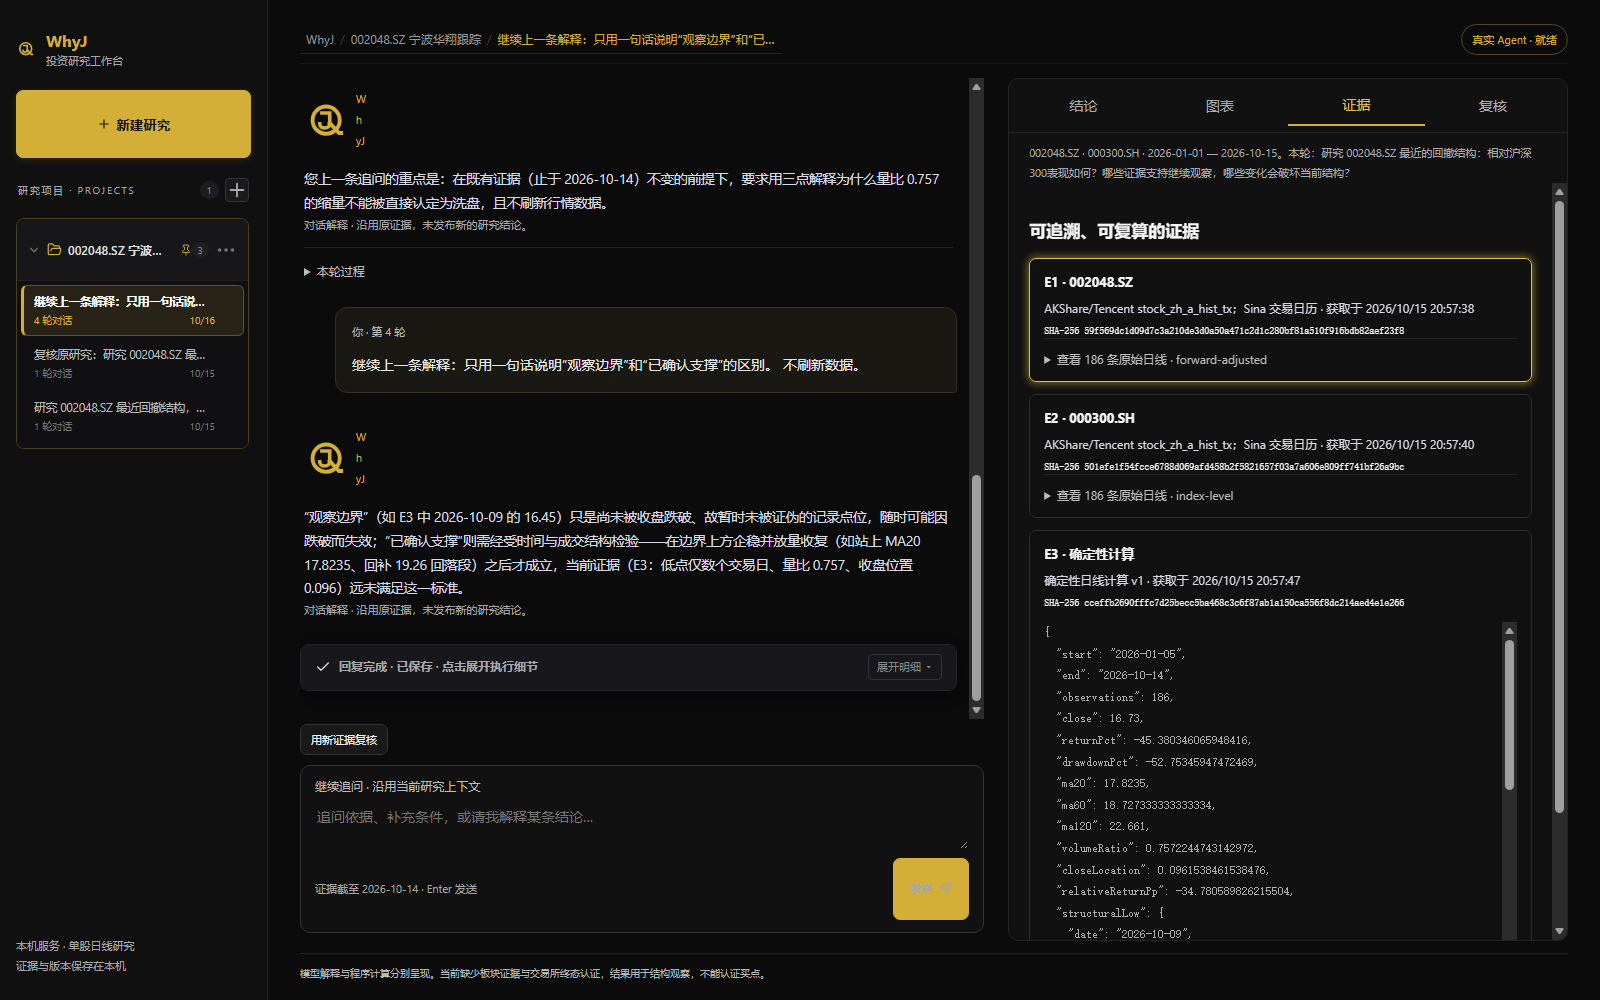
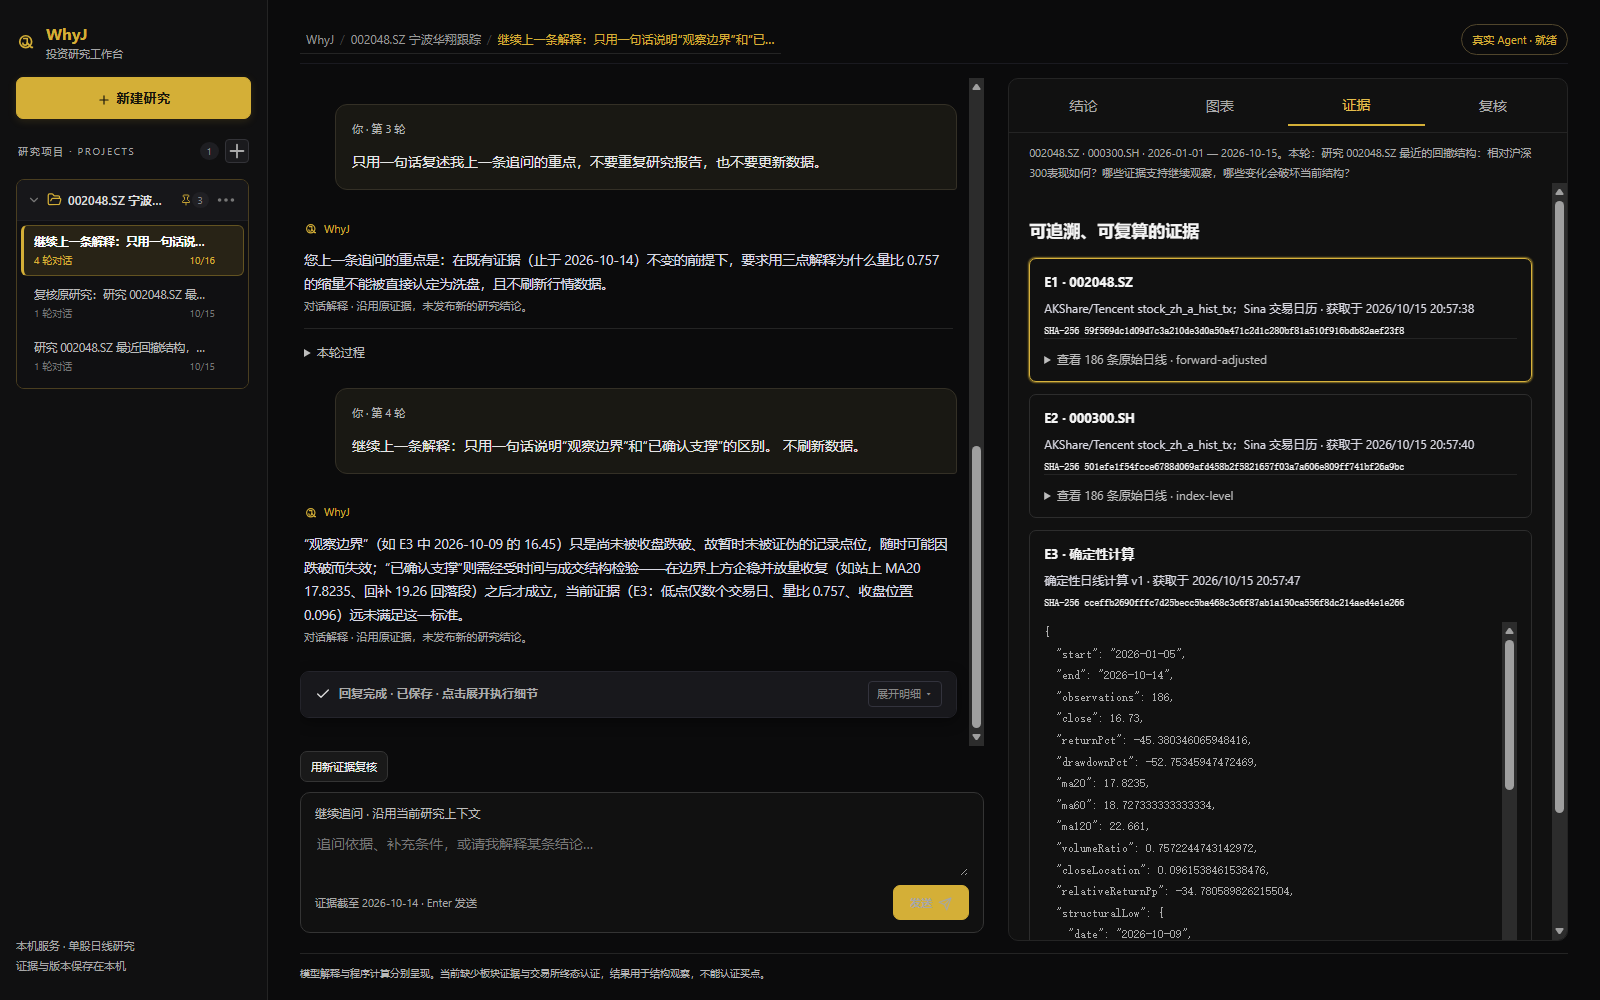
fix(workspace): keep inline SVG glyphs out of the document-wide svg rule
style.css still carries a `svg { width: 100%; height: auto; margin: 15px 0 }`
rule written for Markdown content. The Lucide glyphs and the JQ logo mark
introduced in this branch inherited it, which stretched the message role
logo into a ~46px circle and left 15px vertical margins on every icon.

The logo's own width attribute could not win inside the inline-flex role
line, so its `<span>WhyJ</span>` was squeezed to one character per line.
Reset the margin for both icon classes and pin the role mark's box.

Measured before/after at 1280x900 through computed styles: role line height
75.75px -> 20.89px, role logo 45.75px -> 14px, icon margins 15px -> 0px, and
the WhyJ label 10.28px wide (four stacked lines) -> 25.75px on one line.
The three captured screenshots are regenerated from this revision.

diff --git a/src/app/research-workspace/web/style.css b/src/app/research-workspace/web/style.css
@@ -69,6 +69,13 @@ aside {
 }
 
 /* Lucide and JQ SVG Icons */
+/* The document-wide `svg { width: 100%; height: auto; margin: 15px 0 }` rule
+   below styles Markdown content; these inline glyphs must opt out of its
+   box margins, so reset it here with higher specificity. */
+.lucide,
+.jq-logo-mark {
+  margin: 0;
+}
 .lucide {
   vertical-align: middle;
   display: inline-block;
@@ -1393,6 +1400,17 @@ textarea,
   display: inline-flex;
   align-items: center;
   gap: 6px;
+}
+.role-whyj span {
+  white-space: nowrap;
+}
+/* Inside an inline-flex role line the logo's `width` attribute alone loses to
+   the document-wide `svg { width: 100% }` rule and stretches into a large
+   circle, so pin its box here. */
+.role-whyj .jq-logo-mark {
+  width: 14px;
+  height: 14px;
+  flex: none;
 }
 .reply-summary {
   font-size: 14px;
